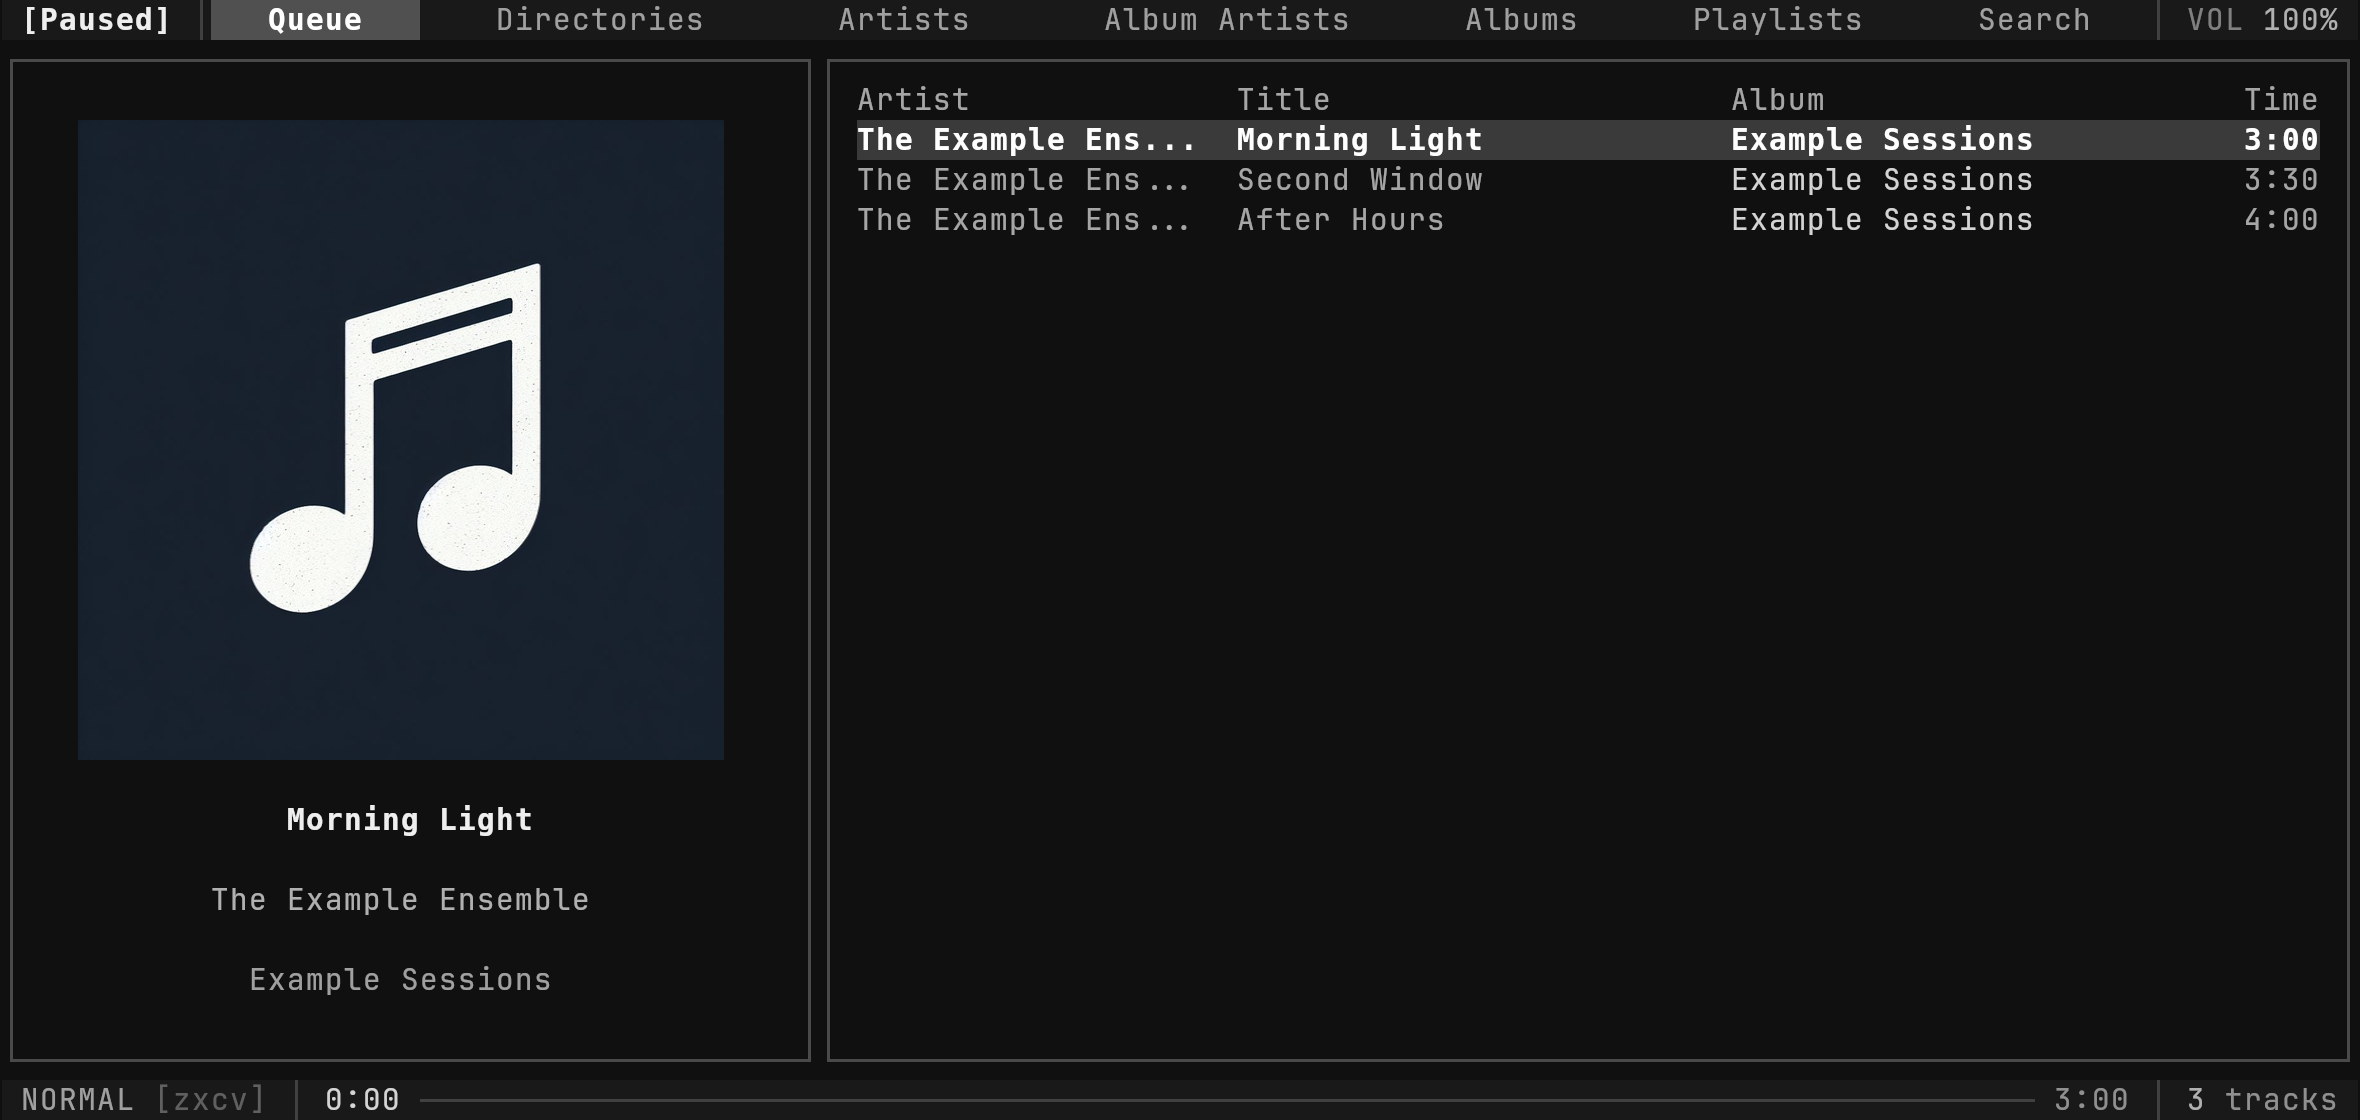
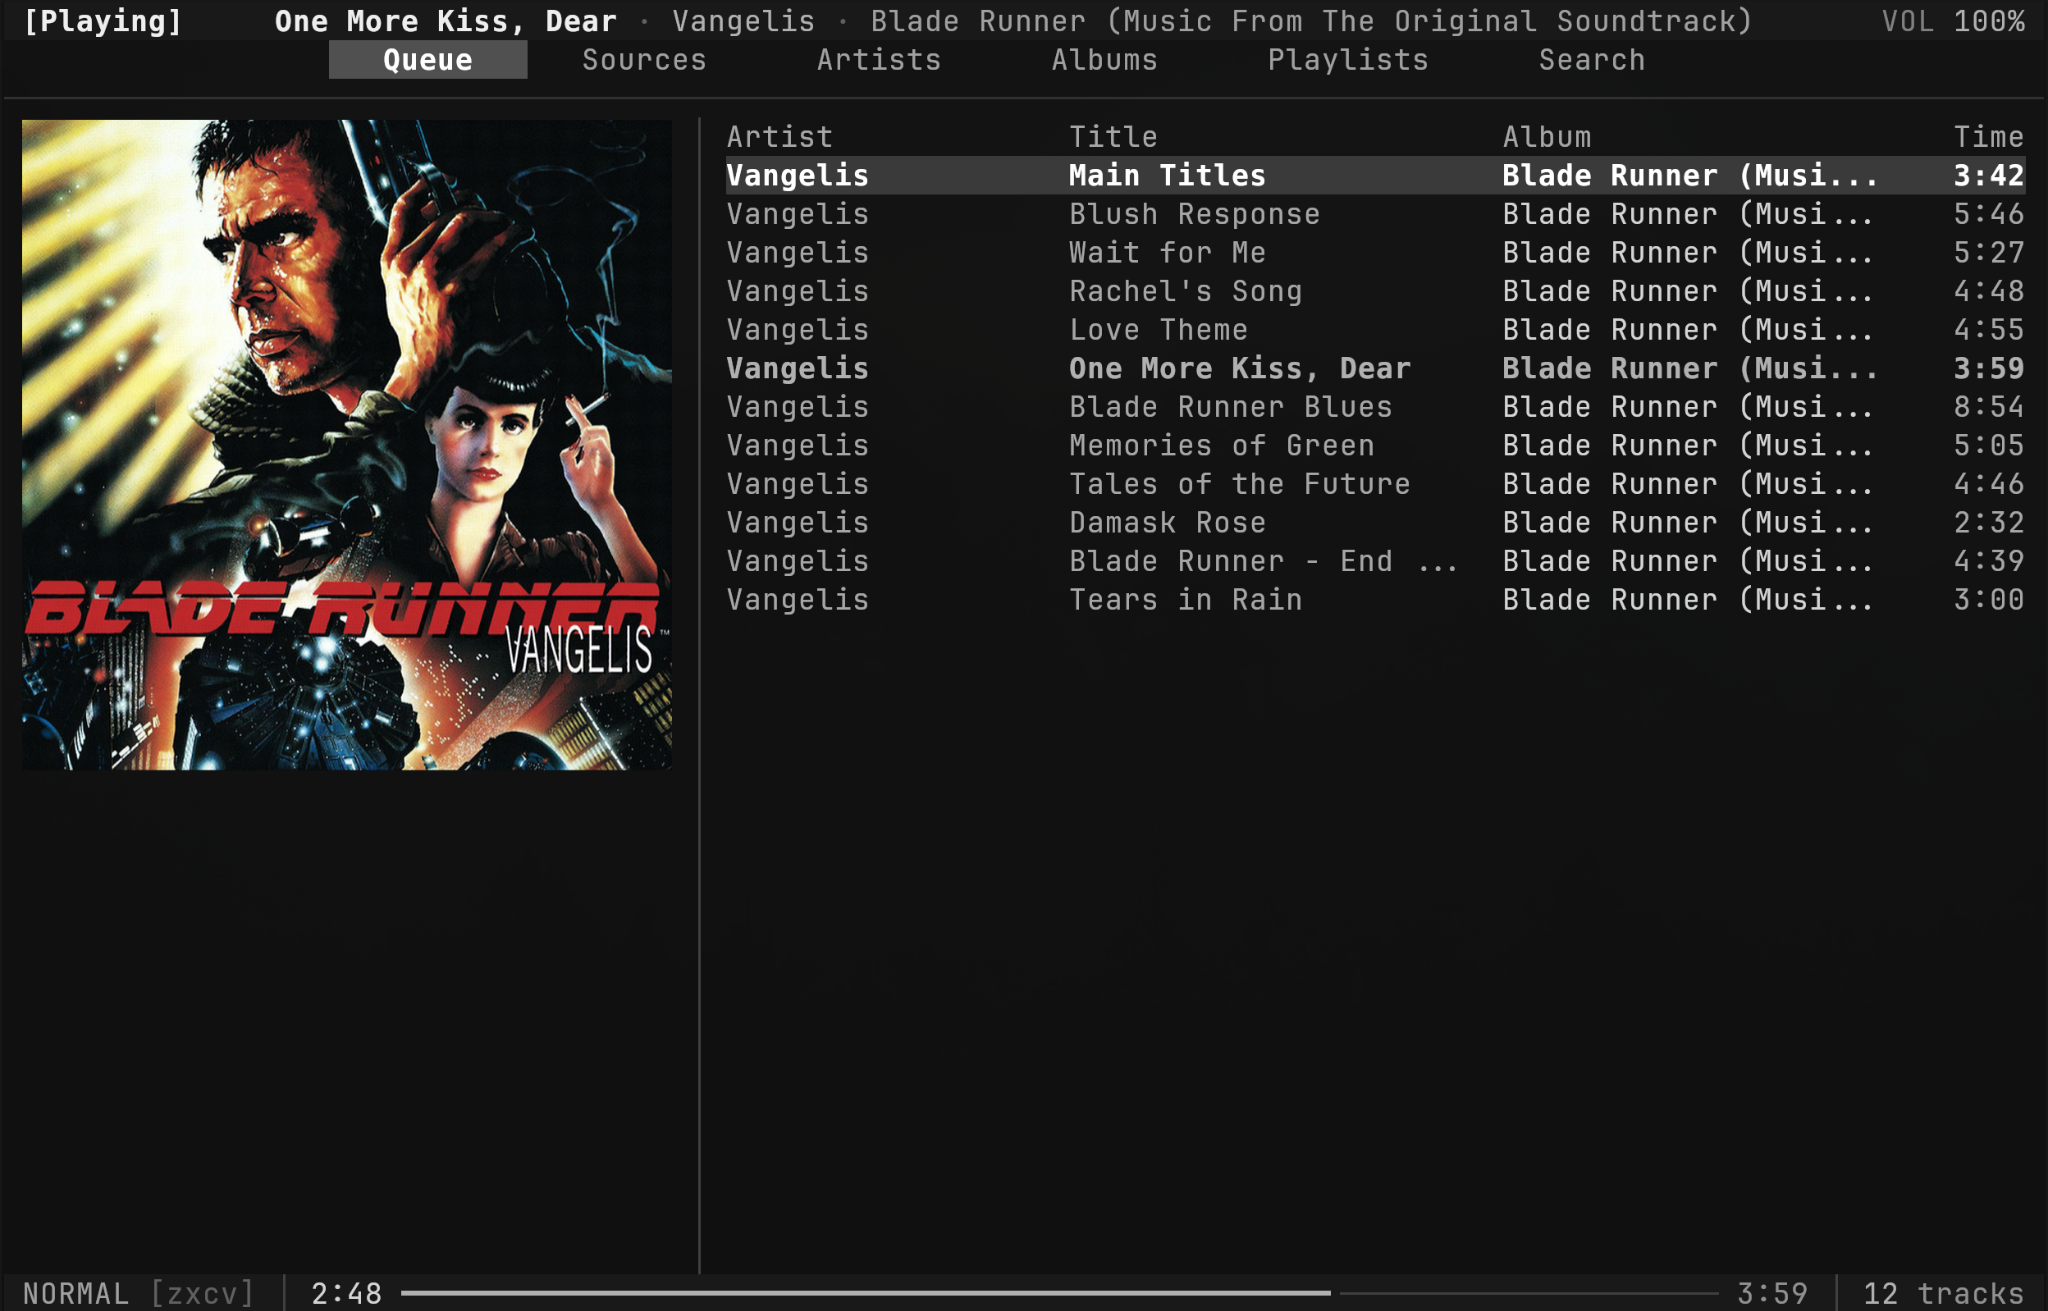
Update default theme

diff --git a/crates/rspc-ui/src/ui/image/kitty.rs b/crates/rspc-ui/src/ui/image/kitty.rs
@@ -4,12 +4,11 @@ use anyhow::{Context, Result};
 use base64::Engine;
 use crossterm::{
     cursor::{RestorePosition, SavePosition},
-    execute, queue,
-    style::{Colors, SetColors},
+    queue,
 };
 use flate2::Compression;
 use itertools::Itertools;
-use ratatui::prelude::{IntoCrossterm, Rect};
+use ratatui::{buffer::Buffer, layout::Rect, style::Color};
 
 use super::{Backend, csi_move};
 use crate::{
@@ -20,6 +19,7 @@ use crate::{
     ctx::Ctx,
     shared::{
         image::{create_aligned_area, get_gif_frames, resize_image},
+        terminal::{Emulator, TERMINAL},
         tmux::tmux_write,
     },
 };
@@ -34,14 +34,46 @@ impl Default for Kitty {
     fn default() -> Self {
         Self {
             uploaded: None,
-            unicode_placeholders: crate::shared::tmux::is_inside_tmux(),
+            unicode_placeholders: crate::shared::tmux::is_inside_tmux()
+                || TERMINAL.emulator() == Emulator::Kitty,
         }
     }
 }
 
 impl Kitty {
+    pub fn uses_placeholders(&self) -> bool {
+        self.unicode_placeholders
+    }
+
     pub fn invalidate(&mut self) {
         self.uploaded = None;
+    }
+
+    /// Put image cells in Ratatui's frame so popups can cover and restore them.
+    pub fn render(&self, buffer: &mut Buffer, data: &Data, background: Option<Color>) {
+        let area = match data {
+            Data::ImageData(image) => image.aligned_area,
+            Data::AnimationData(animation) => animation.aligned_area,
+        };
+        let mut symbol = String::with_capacity(16);
+        for position in area.intersection(*buffer.area()).positions() {
+            let Some(row) = GRID.get(usize::from(position.y - area.y)) else {
+                continue;
+            };
+            let Some(col) = GRID.get(usize::from(position.x - area.x)) else {
+                continue;
+            };
+            symbol.clear();
+            symbol.push(PLACEHOLDER);
+            symbol.push_str(row);
+            symbol.push_str(col);
+            let cell = &mut buffer[position];
+            cell.reset();
+            cell.set_symbol(&symbol).set_fg(Color::Indexed(1));
+            if let Some(background) = background {
+                cell.set_bg(background);
+            }
+        }
     }
 }
 
@@ -63,7 +95,7 @@ impl Backend for Kitty {
         Ok(())
     }
 
-    fn display(&mut self, w: &mut impl Write, data: &Self::EncodedData, ctx: &Ctx) -> Result<()> {
+    fn display(&mut self, w: &mut impl Write, data: &Self::EncodedData, _ctx: &Ctx) -> Result<()> {
         let cached = self
             .uploaded
             .as_ref()
@@ -76,6 +108,7 @@ impl Backend for Kitty {
                         &image.content,
                         image.img_width,
                         image.img_height,
+                        image.aligned_area,
                         self.unicode_placeholders,
                     )?;
                 }
@@ -88,16 +121,7 @@ impl Backend for Kitty {
                 animation.aligned_area
             }
         };
-        if self.unicode_placeholders {
-            create_unicode_placeholder_grid(
-                w,
-                ctx.config
-                    .theme
-                    .background_color
-                    .map(|color| color.into_crossterm()),
-                area,
-            )?;
-        } else {
+        if !self.unicode_placeholders {
             queue!(w, SavePosition)?;
             csi_move!(w, area.x, area.y)?;
             tmux_write!(
@@ -180,38 +204,6 @@ impl Backend for Kitty {
     }
 }
 
-fn create_unicode_placeholder_grid(
-    w: &mut impl Write,
-    bg_color: Option<crossterm::style::Color>,
-    area: Rect,
-) -> Result<()> {
-    let colors = Colors {
-        background: bg_color,
-        foreground: None,
-    };
-    let mut buf = Vec::with_capacity(area.width as usize * area.height as usize * 2);
-    execute!(buf, SetColors(colors))?;
-    for y in 0..area.height {
-        csi_move!(buf, area.left(), area.top() + y)?;
-        write!(buf, "\x1b[38;5;1m")?;
-
-        for x in 0..area.width {
-            write!(
-                buf,
-                "{DELIM}{row}{col}",
-                row = GRID[y as usize],
-                col = GRID[x as usize]
-            )?;
-        }
-
-        write!(buf, "\x1b[39m")?;
-    }
-    w.write_all(&buf)?;
-    w.flush()?;
-
-    Ok(())
-}
-
 fn transfer_animation_data(
     w: &mut impl Write,
     data: &AnimationData,
@@ -288,6 +280,7 @@ fn transfer_image_data(
     content: &str,
     img_width: u32,
     img_height: u32,
+    area: Rect,
     unicode_placeholders: bool,
 ) -> Result<()> {
     let start_time = Instant::now();
@@ -300,7 +293,9 @@ fn transfer_image_data(
     let placeholder = u8::from(unicode_placeholders);
     tmux_write!(
         w,
-        "\x1b_Gi=1,f=32,U={placeholder},t=d,a={action},m={more},q=2,o=z,s={img_width},v={img_height};{first}\x1b\\"
+        "\x1b_Gi=1,f=32,U={placeholder},t=d,a={action},m={more},q=2,o=z,s={img_width},v={img_height},c={cols},r={rows};{first}\x1b\\",
+        cols = area.width,
+        rows = area.height
     )?;
 
     while iter.peek().is_some() {
@@ -345,7 +340,7 @@ pub struct AnimationData {
     aligned_area: Rect,
 }
 
-const DELIM: &str = "\u{10EEEE}";
+pub const PLACEHOLDER: char = '\u{10EEEE}';
 
 const GRID: &[&str] = &[
     "\u{0305}",
@@ -693,7 +688,7 @@ mod tests {
             "hiding must retain the image data"
         );
         if unicode_placeholders {
-            assert!(restored.contains(DELIM));
+            assert!(!restored.contains("a=p"));
         } else {
             assert!(restored.contains("a=p"));
             assert!(restored.contains("d=i"));
@@ -710,8 +705,55 @@ mod tests {
     #[test]
     fn a_small_image_finishes_in_its_first_transfer_chunk() {
         let mut output = Vec::new();
-        transfer_image_data(&mut output, "small", 2, 2, false).expect("small transfer");
+        transfer_image_data(&mut output, "small", 2, 2, Rect::new(0, 0, 2, 2), false)
+            .expect("small transfer");
         assert!(String::from_utf8_lossy(&output).contains("m=0"));
         assert!(!String::from_utf8_lossy(&output).contains("m=1"));
+    }
+
+    #[test]
+    fn popups_cover_only_the_image_cells_they_overlap() {
+        use ratatui::{Terminal, backend::TestBackend, widgets::Clear};
+
+        let backend = Kitty {
+            uploaded: None,
+            unicode_placeholders: true,
+        };
+        let image = image();
+        let mut terminal = Terminal::new(TestBackend::new(5, 4)).expect("terminal");
+        let popup = Rect::new(2, 1, 2, 2);
+        let render = |frame: &mut ratatui::Frame, modal| {
+            backend.render(frame.buffer_mut(), &image, Some(Color::Black));
+            if modal {
+                frame.render_widget(Clear, popup);
+            }
+        };
+        terminal.draw(|frame| render(frame, false)).expect("cover");
+        let original = terminal.backend().buffer().clone();
+        terminal.draw(|frame| render(frame, true)).expect("popup");
+        let overlaid = terminal.backend().buffer();
+        assert_eq!(overlaid[(1, 1)], original[(1, 1)]);
+        assert!(overlaid[(1, 1)].symbol().starts_with(PLACEHOLDER));
+        assert_eq!(overlaid[(2, 1)].symbol(), " ");
+        terminal
+            .draw(|frame| render(frame, false))
+            .expect("close popup");
+        assert_eq!(terminal.backend().buffer(), &original);
+    }
+
+    #[test]
+    fn image_cells_are_clipped_without_changing_their_source_coordinates() {
+        let backend = Kitty {
+            uploaded: None,
+            unicode_placeholders: true,
+        };
+        let mut buffer = Buffer::empty(Rect::new(2, 2, 2, 2));
+        backend.render(&mut buffer, &image(), None);
+        assert_eq!(
+            buffer[(2, 2)].symbol(),
+            format!("{PLACEHOLDER}{}{}", GRID[1], GRID[1])
+        );
+        assert_eq!(buffer[(2, 2)].fg, Color::Indexed(1));
+        assert_eq!(buffer[(3, 3)].symbol(), " ");
     }
 }

diff --git a/crates/rspc-ui/src/ui/panes/album_art.rs b/crates/rspc-ui/src/ui/panes/album_art.rs
@@ -73,9 +73,9 @@ impl AlbumArtPane {
 }
 
 impl Pane for AlbumArtPane {
-    fn render(&mut self, frame: &mut Frame, area: Rect, _ctx: &Ctx) -> Result<()> {
+    fn render(&mut self, frame: &mut Frame, area: Rect, ctx: &Ctx) -> Result<()> {
         self.album_art.set_size(area);
-        self.album_art.preserve_image(frame.buffer_mut());
+        self.album_art.render(frame.buffer_mut(), ctx);
         Ok(())
     }
 
@@ -93,7 +93,7 @@ impl Pane for AlbumArtPane {
     }
 
     fn resize(&mut self, area: Rect, ctx: &Ctx) -> Result<()> {
-        if self.is_modal_open {
+        if self.is_modal_open && !self.album_art.supports_overlay() {
             return Ok(());
         }
         self.album_art.resize(area, ctx)
@@ -121,7 +121,7 @@ impl Pane for AlbumArtPane {
         is_visible: bool,
         ctx: &Ctx,
     ) -> Result<()> {
-        if !is_visible || self.is_modal_open {
+        if !is_visible || (self.is_modal_open && !self.album_art.supports_overlay()) {
             return Ok(());
         }
         match (id, data) {
@@ -142,18 +142,18 @@ impl Pane for AlbumArtPane {
         match event {
             UiEvent::SongChanged | UiEvent::Reconnected if is_visible => {
                 self.fetch_needed = true;
-                if self.is_modal_open {
+                if self.is_modal_open && !self.album_art.supports_overlay() {
                     return Ok(());
                 }
                 self.before_show(ctx)?;
             }
             UiEvent::Displayed if is_visible => {
-                if is_visible && !self.is_modal_open {
+                if !self.is_modal_open || self.album_art.supports_overlay() {
                     self.album_art.redraw_current(ctx)?;
                 }
             }
             UiEvent::ModalOpened if is_visible => {
-                if !self.is_modal_open {
+                if !self.is_modal_open && !self.album_art.supports_overlay() {
                     self.album_art.hide(ctx)?;
                 }
                 self.is_modal_open = true;
@@ -165,11 +165,13 @@ impl Pane for AlbumArtPane {
                     self.before_show(ctx)?;
                     return Ok(());
                 }
-                self.album_art.show_current(ctx)?;
+                if !self.album_art.supports_overlay() {
+                    self.album_art.show_current(ctx)?;
+                }
             }
             UiEvent::ConfigChanged => {
                 self.fetch_needed = true;
-                if is_visible && !self.is_modal_open {
+                if is_visible && (!self.is_modal_open || self.album_art.supports_overlay()) {
                     self.album_art.show_current(ctx)?;
                 }
             }

diff --git a/crates/rspc-ui/src/ui/image/facade.rs b/crates/rspc-ui/src/ui/image/facade.rs
@@ -163,6 +163,10 @@ impl AlbumArtFacade {
         self.current_album_art.is_some()
     }
 
+    pub fn supports_overlay(&self) -> bool {
+        matches!(&self.image_backend, ImageBackend::Kitty(backend) if backend.uses_placeholders())
+    }
+
     pub fn show(&mut self, data: impl Into<Arc<Vec<u8>>>, ctx: &Ctx) -> Result<()> {
         let data = data.into();
         self.current_album_art = Some(Arc::clone(&data));
@@ -320,7 +324,20 @@ impl AlbumArtFacade {
         Ok(())
     }
 
-    pub fn preserve_image(&self, buffer: &mut ratatui::buffer::Buffer) {
+    pub fn render(&self, buffer: &mut ratatui::buffer::Buffer, ctx: &Ctx) {
+        if self.is_showing
+            && let ImageBackend::Kitty(backend) = &self.image_backend
+            && backend.uses_placeholders()
+        {
+            if let Some((_, EncodeData::Kitty(data))) = self
+                .prepared
+                .as_ref()
+                .filter(|(key, _)| self.desired.as_ref() == Some(key))
+            {
+                backend.render(buffer, data, ctx.config.theme.background_color);
+            }
+            return;
+        }
         if self.is_showing
             && let Some(area) = self.displayed_area
         {

diff --git a/crates/rspc-ui/src/ui/mod.rs b/crates/rspc-ui/src/ui/mod.rs
@@ -215,7 +215,12 @@ impl<'ui> Ui<'ui> {
 
         if ctx.config.theme.modal_backdrop && !self.modals.is_empty() {
             let buffer = frame.buffer_mut();
-            buffer.set_style(*buffer.area(), Style::default().fg(Color::DarkGray));
+            for cell in &mut buffer.content {
+                // A Kitty image's foreground identifies its pixels, not a text color.
+                if !cell.symbol().starts_with(image::kitty::PLACEHOLDER) {
+                    cell.set_fg(Color::DarkGray);
+                }
+            }
         }
 
         for modal in &mut self.modals {
